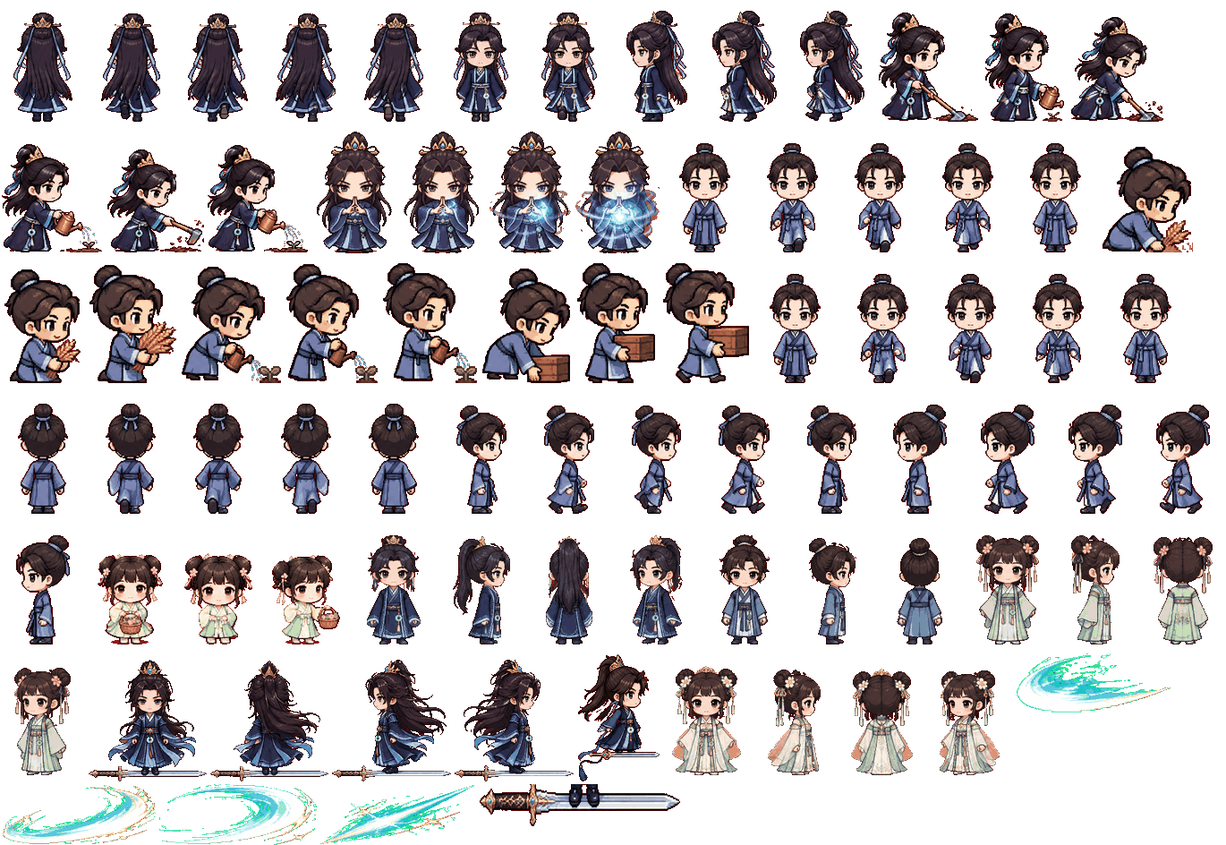
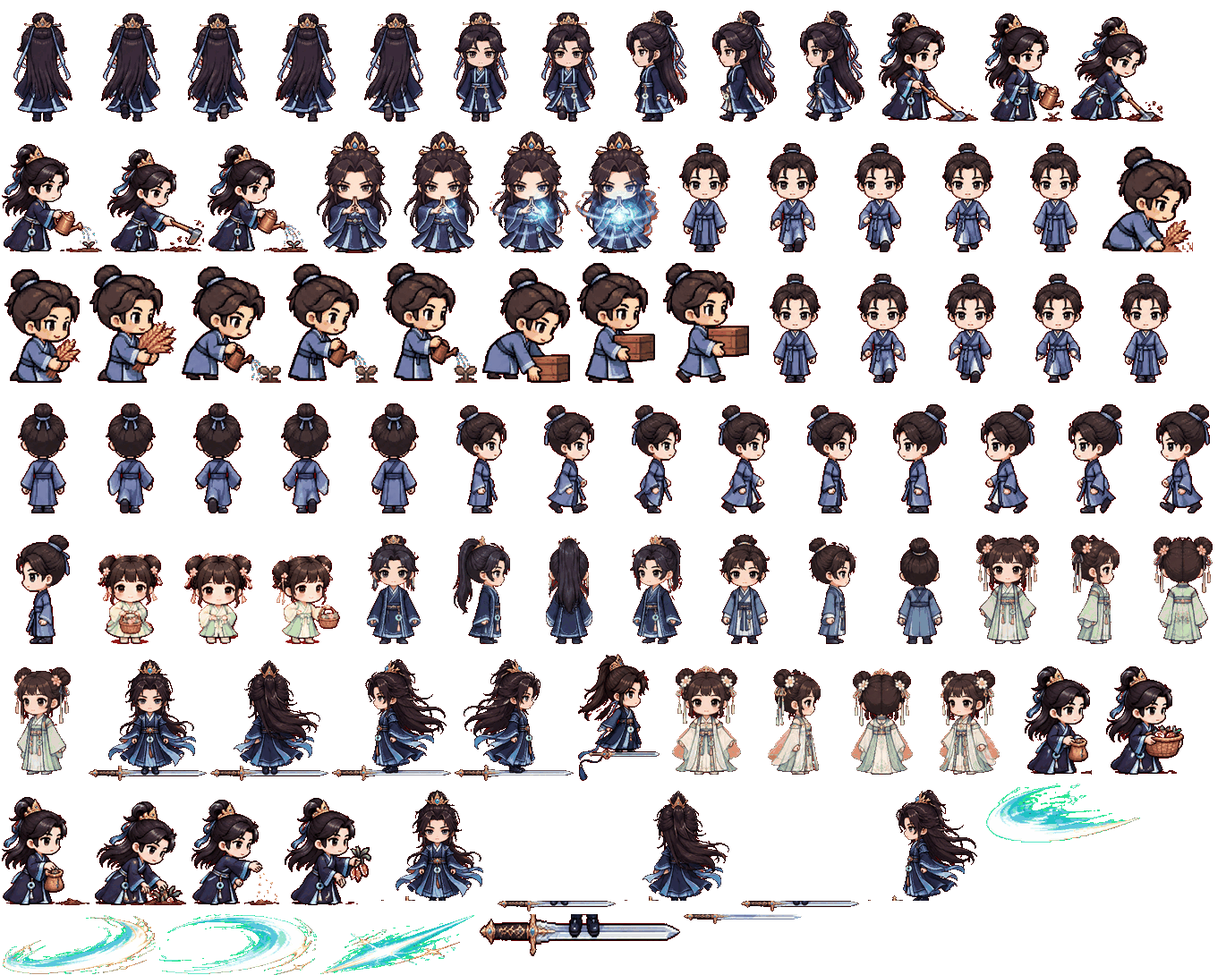
高清真机反馈修复批：主角播种/收获改本尊帧(原兜底误挂男弟子收获帧)/御剑拖尾改程序剑光带(废环件同心波纹)/全向御剑改去剑身体层+单体飞剑随向(剑尖恒指行进方向,主人13:00追加令;烘焙剑逐向实测:正背横剑/侧姿尖背向)/图集调色板锁定防漂移;fix6专项13项+全套基线全绿

diff --git a/index.html b/index.html
@@ -274,7 +274,9 @@ const CONFIG = {
   },
   fx: { poolSize: 512, hardCap: 400, dtClampMs: 33, degradeFrameMs: 20, dprCap: 1.5 },
   camera: { dampMs: 130, lookBackMs: 240, lookMax: 300, snapDist: 420 },  // 修复批②：阻尼跟随＋拖动巡视回正
-  flight: { height: 15, riseMs: 360, landDelayMs: 1000, trailMs: 70 },     // 修复批①：主角御剑（静止超 landDelay 落地）
+  flight: { height: 15, riseMs: 360, landDelayMs: 1000, trailMs: 70,   // trailMs 为旧环件拖尾口径（已弃用，保留键防外部引用失效）
+    trailSampleMs: 34, trailLifeMs: 400, trailWidth: 9,               // 高清真机反馈批②：程序剑光带拖尾（采样间隔/寿命/头宽 px）
+    swordLenFB: 1.35, swordSqMs: 100 },                               // 高清真机反馈批③：单体飞剑竖向长度倍率与转向时标（90°/swordSqMs）
   gait: { cyclePx: 48 },                                                   // 修复批①：步帧相位＝位移/步幅周期，帧与脚步同步
   save: { key: 'kaizongmen_save', lastGoodKey: 'kaizongmen_save_lastgood', version: 2, autosaveMs: 5000,
     slots: 5, slotPrefix: 'kaizongmen_slot_' },   // 修复批⑥：自动档（主 key）＋5 手动槽
@@ -915,6 +917,7 @@ const Offline = {
 const Fx = {
   canvas: null, ctx: null, dpr: 1,
   pool: [], active: 0, emitters: [], bolts: [], floats: [],
+  swordTrail: [],   // 高清真机反馈批②：御剑拖尾采样点列（世界坐标 {x,y,t}），_draw 内连成连续剑光带
   perf: { level: 0, frameAvg: 16, overFrames: 0 },
   trauma: 0, shakeT: 0, reducedMotion: false,
   sprites: {},
@@ -1029,13 +1032,40 @@ const Fx = {
     if (gleaves.length) this.emitters.push({ x: 800, y: 760, rate: 1.0, acc: 0, on: true, drift: true,
       spread: 780, spreadY: 330, sprites: gleaves, vx: 0.11, vy: 0.16, life: 9000, size: 9 });
   },
-  /* 美术批二：剑光拖影贴图注册（fx2_trail_1..4 → sprites trail1..4）；无图时 Actor 自动回退 spark/mote */
+  /* 美术批二：剑光拖影贴图注册（fx2_trail_1..4 → sprites trail1..4）。
+     高清真机反馈批②起环件不再用于飞行拖尾（拖尾改 _drawSwordTrail 程序光带），注册保留供他用/测试契约。 */
   attachSwordTrail(){
     if (this.trailSprites || !this.sprites || typeof Art === 'undefined' || !Art.ready2) return;
     const names = [];
     for (let i = 1; i <= 4; i++){ const c = Art.cropCanvas('fx2_trail_' + i + '_v1.png', true);
       if (c){ this.sprites['trail' + i] = c; names.push('trail' + i); } }
     if (names.length) this.trailSprites = names;
+  },
+  /* 高清真机反馈批②：御剑拖尾——Actor 移动中按 trailSampleMs 采样剑尖轨迹点，
+     _draw 时按寿命连成连续光带（外层青蓝晕＋内层青白芯，宽/透明度随龄衰减），无离散环件。 */
+  pushSwordTrail(x, y){
+    const T = this.swordTrail, now = performance.now(), last = T[T.length - 1];
+    if (last && Math.hypot(x - last.x, y - last.y) > 60) T.length = 0;   // 传送/回收跳变：断带防拉丝
+    T.push({ x, y, t: now });
+    while (T.length && now - T[0].t > CONFIG.flight.trailLifeMs) T.shift();
+  },
+  _drawSwordTrail(g){
+    const T = this.swordTrail; if (T.length < 2) return;
+    const now = performance.now(), life = CONFIG.flight.trailLifeMs, W0 = CONFIG.flight.trailWidth;
+    while (T.length && now - T[0].t > life) T.shift();
+    if (T.length < 2) return;
+    g.save(); g.globalCompositeOperation = 'lighter'; g.lineCap = 'round'; g.lineJoin = 'round';
+    for (let pass = 0; pass < 2; pass++){
+      for (let i = 1; i < T.length; i++){
+        const age = (now - T[i].t) / life; if (age >= 1) continue;
+        const p1 = Scene.worldToScreen(T[i - 1]), p2 = Scene.worldToScreen(T[i]);
+        g.strokeStyle = pass ? 'rgba(228,247,255,' + (0.55 * (1 - age)).toFixed(3) + ')'
+                             : 'rgba(96,186,255,' + (0.30 * (1 - age)).toFixed(3) + ')';
+        g.lineWidth = Math.max(0.6, W0 * (1 - age) * (pass ? 0.45 : 1));
+        g.beginPath(); g.moveTo(p1.x, p1.y); g.lineTo(p2.x, p2.y); g.stroke();
+      }
+    }
+    g.restore();
   },
   /* ---- 主循环（由游戏主循环以钳制后 dt 调用） ---- */
   tick(dtMs, frameMs){
@@ -1088,6 +1118,7 @@ const Fx = {
   _draw(){
     const g = this.ctx; g.setTransform(this.dpr, 0, 0, this.dpr, 0, 0);
     g.clearRect(0, 0, innerWidth, innerHeight);
+    this._drawSwordTrail(g);
     for (const b of this.bolts){ const a = 1 - b.age / b.life;
       g.strokeStyle = 'rgba(255,238,176,' + (a * 0.95) + ')'; g.lineWidth = 3; g.beginPath();
       for (const s of b.segs){ const p1 = Scene.worldToScreen({ x: s[0], y: s[1] }), p2 = Scene.worldToScreen({ x: s[2], y: s[3] });
@@ -1367,11 +1398,10 @@ const Actor = {
     const flyTarget = (now - p.lastMoveAt < CONFIG.flight.landDelayMs) ? CONFIG.flight.height : 0;
     p.flyH += (flyTarget - p.flyH) * Math.min(1, dt / (CONFIG.flight.riseMs / 3));
     if (Math.abs(flyTarget - p.flyH) < 0.1) p.flyH = flyTarget;
-    if (p.moving && p.flyH > 6){ // 剑光拖影（低频单粒，沿用 Fx 预算与帧率保护）
+    if (p.moving && p.flyH > 6){ // 剑光拖尾（高清真机反馈批②改程序光带：旧环件 fx2_trail 每 70ms 离散落一粒、寿命内叠成同心波纹，主人否决）
       p._trailAcc += dt;
-      if (p._trailAcc >= CONFIG.flight.trailMs){ p._trailAcc = 0;
-        Fx.burst(p.x - p.facing * 12, p.y - p.flyH + 4, { sprites: Fx.trailSprites || ['spark', 'mote'],
-          n: 1, speed: 0.4, life: 420, size: Fx.trailSprites ? 13 : 0 }); }
+      if (p._trailAcc >= CONFIG.flight.trailSampleMs){ p._trailAcc = 0;
+        Fx.pushSwordTrail(p.x, p.y - p.flyH + 6); }
     }
     S.player.x = p.x; S.player.y = p.y; S.player.facing = p.facing;
   },
@@ -2635,11 +2665,13 @@ const UI = {
  *   master hoe/water: 表02 全朝右（代码不翻转，与 v1 口径同）；chr 三视来自表08（正/侧朝右/背/斜）。
  *   male frm2: f/b/l/r 四向真帧（表05），06..09=乒乓别名（同 4/3/2/1 的 rect）；male labor 表06 原生侧姿。
  *   fly: 表03 四姿，剑身倾斜实测 |0.59..0.84|°≤3°；side_l 原生左、side_r 原生右（代码镜像/定版单姿逻辑不变）。
+ *   fly 分层（高清真机反馈批③＋13:00 追加令）：四向姿均切去剑身体层 _bd（cutY=131），剑身统一单体件 frm2_sword
+ *   按行进角绘制、剑尖恒随向（烘焙剑逐向实测：正/背横剑、侧姿尖背向）；master sow/harvest 为表02 播/收行本尊帧（批①）。
  *   v1 朝向映射（assets/ORIENTATION-map.md）为旧图集口径，已被本批取代。
  * ================================================================ */
 const Art = {
   ready: false, failed: false, ready2: false, failed2: false, ready3: false, failed3: false, imgs: {}, F: {}, tintCache: {},
-  RECTS: {"chars":{"frm_master_backwalk_01_v1.png":[0,0,96,144],"frm_master_backwalk_02_v1.png":[98,0,96,144],"frm_master_backwalk_03_v1.png":[196,0,96,144],"frm_master_backwalk_04_v1.png":[294,0,96,144],"frm_master_backwalk_05_v1.png":[392,0,96,144],"frm_master_walk_01_v1.png":[490,0,96,144],"frm_master_walk_02_v1.png":[588,0,96,144],"frm_master_walk_03_v1.png":[686,0,96,144],"frm_master_walk_04_v1.png":[784,0,96,144],"frm_master_walk_05_v1.png":[882,0,96,144],"frm_master_hoe_01_v1.png":[980,0,115,144],"frm_master_water_01_v1.png":[1097,0,96,144],"frm_master_hoe_02_v1.png":[1195,0,107,144],"frm_master_water_02_v1.png":[0,146,116,144],"frm_master_hoe_03_v1.png":[118,146,110,144],"frm_master_water_03_v1.png":[230,146,116,144],"frm_master_cast_01_v1.png":[348,146,96,144],"frm_master_cast_02_v1.png":[446,146,96,144],"frm_master_cast_03_v1.png":[544,146,96,144],"frm_master_cast_04_v1.png":[642,146,96,144],"frm_male_walk_01_v1.png":[740,146,96,144],"frm_male_walk_02_v1.png":[838,146,96,144],"frm_male_walk_03_v1.png":[936,146,96,144],"frm_male_walk_04_v1.png":[1034,146,96,144],"frm_male_walk_05_v1.png":[1132,146,96,144],"frm_male_harvest_01_v1.png":[1230,146,103,144],"frm_male_harvest_02_v1.png":[0,292,96,144],"frm_male_harvest_03_v1.png":[98,292,101,144],"frm_male_water_01_v1.png":[201,292,115,144],"frm_male_water_02_v1.png":[318,292,106,144],"frm_male_water_03_v1.png":[426,292,109,144],"frm_male_carry_01_v1.png":[537,292,102,144],"frm_male_carry_02_v1.png":[641,292,96,144],"frm_male_carry_03_v1.png":[739,292,100,144],"frm2_male_walkf_01_v1.png":[841,292,96,144],"frm2_male_walkf_02_v1.png":[939,292,96,144],"frm2_male_walkf_03_v1.png":[1037,292,96,144],"frm2_male_walkf_04_v1.png":[1135,292,96,144],"frm2_male_walkf_05_v1.png":[1233,292,96,144],"frm2_male_walkb_01_v1.png":[0,438,96,144],"frm2_male_walkb_02_v1.png":[98,438,96,144],"frm2_male_walkb_03_v1.png":[196,438,96,144],"frm2_male_walkb_04_v1.png":[294,438,96,144],"frm2_male_walkb_05_v1.png":[392,438,96,144],"frm2_male_walkr_01_v1.png":[490,438,96,144],"frm2_male_walkr_02_v1.png":[588,438,96,144],"frm2_male_walkr_03_v1.png":[686,438,96,144],"frm2_male_walkr_04_v1.png":[784,438,96,144],"frm2_male_walkr_05_v1.png":[882,438,96,144],"frm2_male_walkl_01_v1.png":[980,438,96,144],"frm2_male_walkl_02_v1.png":[1078,438,96,144],"frm2_male_walkl_03_v1.png":[1176,438,96,144],"frm2_male_walkl_04_v1.png":[1274,438,96,144],"frm2_male_walkl_05_v1.png":[0,584,96,144],"frm_female_basket_01_v1.png":[98,584,96,144],"frm_female_basket_02_v1.png":[196,584,96,144],"frm_female_basket_03_v1.png":[294,584,96,144],"chr_master_front_v1.png":[392,584,96,144],"chr_master_side_v1.png":[490,584,96,144],"chr_master_back_v1.png":[588,584,96,144],"chr_master_side34_v1.png":[686,584,96,144],"chr_male_front_v1.png":[784,584,96,144],"chr_male_side_v1.png":[882,584,96,144],"chr_male_back_v1.png":[980,584,96,144],"chr_female_front_v1.png":[1078,584,96,144],"chr_female_side_v1.png":[1176,584,96,144],"chr_female_back_v1.png":[1274,584,96,144],"chr_female_side34_v1.png":[0,730,96,144],"frm2_master_fly_front_v1.png":[98,730,134,144],"frm2_master_fly_back_v1.png":[234,730,134,144],"frm2_master_fly_side_l_v1.png":[370,730,135,144],"frm2_master_fly_side_r_v1.png":[507,730,135,144],"frm2_master_fly_side_l2_v1.png":[644,730,96,144],"chr_female2_front_v1.png":[742,730,96,144],"chr_female2_side_v1.png":[840,730,96,144],"chr_female2_back_v1.png":[938,730,96,144],"chr_female2_side34_v1.png":[1036,730,96,144],"fx2_trail_1_v1.png":[1134,730,176,68],"fx2_trail_2_v1.png":[0,876,176,68],"fx2_trail_3_v1.png":[178,876,176,68],"fx2_trail_4_v1.png":[356,876,176,68],"art2_sword_v1.png":[534,876,228,50],"frm2_male_walkf_06_v1.png":[1135,292,96,144],"frm2_male_walkf_07_v1.png":[1037,292,96,144],"frm2_male_walkf_08_v1.png":[939,292,96,144],"frm2_male_walkf_09_v1.png":[841,292,96,144],"frm2_male_walkb_06_v1.png":[294,438,96,144],"frm2_male_walkb_07_v1.png":[196,438,96,144],"frm2_male_walkb_08_v1.png":[98,438,96,144],"frm2_male_walkb_09_v1.png":[0,438,96,144],"frm2_male_walkr_06_v1.png":[784,438,96,144],"frm2_male_walkr_07_v1.png":[686,438,96,144],"frm2_male_walkr_08_v1.png":[588,438,96,144],"frm2_male_walkr_09_v1.png":[490,438,96,144],"frm2_male_walkl_06_v1.png":[1274,438,96,144],"frm2_male_walkl_07_v1.png":[1176,438,96,144],"frm2_male_walkl_08_v1.png":[1078,438,96,144],"frm2_male_walkl_09_v1.png":[980,438,96,144],"chr_male_back2_v1.png":[980,584,96,144]},"fix3":{"frm3_frm_male_harvest_01_v1.png":[1230,146,103,144],"frm3_frm_male_harvest_02_v1.png":[0,292,96,144],"frm3_frm_male_harvest_03_v1.png":[98,292,101,144],"frm3_frm_male_water_01_v1.png":[201,292,115,144],"frm3_frm_male_water_02_v1.png":[318,292,106,144],"frm3_frm_male_water_03_v1.png":[426,292,109,144],"frm3_frm_male_carry_01_v1.png":[537,292,102,144],"frm3_frm_male_carry_02_v1.png":[641,292,96,144],"frm3_frm_male_carry_03_v1.png":[739,292,100,144]},"scene":{"int_forge_v1.png":[0,0,320,320],"int_hall_v1.png":[322,0,320,320],"int_quarters_v1.png":[644,0,320,320],"int_stall_v1.png":[0,322,320,320],"bld_forge_v1.png":[322,322,302,254],"bld_waterwheel_v1.png":[626,322,302,225],"bld_hall_v1.png":[930,322,302,222],"bld_quarters_v1.png":[0,644,302,213],"bld_stall_v1.png":[304,644,262,205],"bld_gate_v1.png":[568,644,302,180],"prop_minegate_v1.png":[872,644,154,132],"prop_scale_v1.png":[1028,644,96,108],"prop_cart_v1.png":[1126,644,95,88],"crop_lingzhi_s2_v1.png":[0,859,110,84],"crop_lingzhi_s3_v1.png":[112,859,96,84],"crop_lingzhi_s4_v1.png":[210,859,84,84],"crop_lingzhi_s5_v1.png":[296,859,75,84],"crop_ninglu_s3_v1.png":[373,859,95,84],"crop_ninglu_s4_v1.png":[470,859,85,84],"crop_ninglu_s5_v1.png":[557,859,81,84],"crop_xuanyu_s2_v1.png":[640,859,109,84],"crop_xuanyu_s3_v1.png":[751,859,99,84],"crop_xuanyu_s4_v1.png":[852,859,91,84],"crop_xuanyu_s5_v1.png":[945,859,89,84],"prop_crystal_v1.png":[1036,859,93,84],"crop_ninglu_s2_v1.png":[1131,859,112,81],"crop_xuanyu_s1_v1.png":[0,945,112,80],"crop_ninglu_s1_v1.png":[114,945,112,78],"crop_lingzhi_s1_v1.png":[228,945,112,77],"tile_soil_v1.png":[342,945,112,77],"prop_lantern_v1.png":[456,945,54,69],"prop_fence_v1.png":[512,945,95,58],"prop_bush_v1.png":[609,945,61,55],"prop_flower_v1.png":[672,945,57,47],"cropfix_lingzhi_s2_v1.png":[0,859,110,84],"cropfix_lingzhi_s3_v1.png":[112,859,96,84],"cropfix_lingzhi_s4_v1.png":[210,859,84,84],"cropfix_lingzhi_s5_v1.png":[296,859,75,84],"cropfix_ninglu_s5_v1.png":[557,859,81,84],"cropfix_xuanyu_s5_v1.png":[945,859,89,84]},"ground":{"fx_wheel_v1.png":[0,0,256,256],"fx_splash_3_v1.png":[258,0,148,177],"gnd_roadedge_v1.png":[408,0,48,176],"gnd_grass_a_v1.png":[458,0,160,160],"gnd_grass_b_v1.png":[620,0,160,160],"gnd_dirt_v1.png":[782,0,160,160],"gnd_stone_v1.png":[0,258,160,160],"gnd_water_v1.png":[162,258,160,160],"gnd_rock_v1.png":[324,258,160,160],"gnd_steps_v1.png":[486,258,160,160],"gnd_shore_v1.png":[648,258,176,148],"fx_splash_2_v1.png":[826,258,148,144],"fx_splash_1_v1.png":[0,420,148,102],"fx_splash_4_v1.png":[150,420,148,65],"fx_leaf_2_v1.png":[300,420,38,44],"fx_leaf_3_v1.png":[340,420,43,44],"fx_leaf_4_v1.png":[385,420,58,44],"fx_leaf_5_v1.png":[445,420,44,44],"fx_leaf_6_v1.png":[491,420,64,44],"fx_leaf_7_v1.png":[557,420,53,44],"fx_leaf_1_v1.png":[612,420,64,36],"fx_leaf_8_v1.png":[678,420,64,34],"fx_petal_1_v1.png":[744,420,35,34],"fx_petal_3_v1.png":[781,420,30,34],"fx_petal_4_v1.png":[813,420,25,34],"fx_petal_5_v1.png":[840,420,36,34],"fx_petal_7_v1.png":[878,420,28,34],"fx_petal_2_v1.png":[908,420,44,32],"fx_petal_6_v1.png":[954,420,44,31]},"ui":{"art2_plaque_v1.png":[0,0,600,271],"ava_0_v1.png":[602,0,124,124],"ava_1_v1.png":[728,0,124,124],"ava_2_v1.png":[854,0,124,124],"ava_3_v1.png":[0,273,124,124],"ava_4_v1.png":[126,273,124,124],"ava_5_v1.png":[252,273,124,124],"icn_coin_v1.png":[378,273,96,96],"icn_disciple_v1.png":[476,273,96,96],"icn_build_v1.png":[574,273,96,96],"icn_bag_v1.png":[672,273,96,96],"icn_order_v1.png":[770,273,96,96],"icn_signin_v1.png":[868,273,96,96],"icn_sleep_v1.png":[0,399,96,96],"icn_stamina_v1.png":[98,399,96,96],"icn_recruit_v1.png":[196,399,96,96],"icn_promote_v1.png":[294,399,96,96],"icn_expand_v1.png":[392,399,96,96],"icn_dispatch_v1.png":[490,399,96,96],"icn_board_v1.png":[588,399,96,96],"icn_lingzhi_v1.png":[686,399,96,96],"icn_ninglu_v1.png":[784,399,96,96],"icn_xuanyu_v1.png":[882,399,96,96]}},
+  RECTS: {"chars":{"frm_master_backwalk_01_v1.png":[0,0,96,144],"frm_master_backwalk_02_v1.png":[98,0,96,144],"frm_master_backwalk_03_v1.png":[196,0,96,144],"frm_master_backwalk_04_v1.png":[294,0,96,144],"frm_master_backwalk_05_v1.png":[392,0,96,144],"frm_master_walk_01_v1.png":[490,0,96,144],"frm_master_walk_02_v1.png":[588,0,96,144],"frm_master_walk_03_v1.png":[686,0,96,144],"frm_master_walk_04_v1.png":[784,0,96,144],"frm_master_walk_05_v1.png":[882,0,96,144],"frm_master_hoe_01_v1.png":[980,0,115,144],"frm_master_water_01_v1.png":[1097,0,96,144],"frm_master_hoe_02_v1.png":[1195,0,107,144],"frm_master_water_02_v1.png":[0,146,116,144],"frm_master_hoe_03_v1.png":[118,146,110,144],"frm_master_water_03_v1.png":[230,146,116,144],"frm_master_cast_01_v1.png":[348,146,96,144],"frm_master_cast_02_v1.png":[446,146,96,144],"frm_master_cast_03_v1.png":[544,146,96,144],"frm_master_cast_04_v1.png":[642,146,96,144],"frm_male_walk_01_v1.png":[740,146,96,144],"frm_male_walk_02_v1.png":[838,146,96,144],"frm_male_walk_03_v1.png":[936,146,96,144],"frm_male_walk_04_v1.png":[1034,146,96,144],"frm_male_walk_05_v1.png":[1132,146,96,144],"frm_male_harvest_01_v1.png":[1230,146,103,144],"frm_male_harvest_02_v1.png":[0,292,96,144],"frm_male_harvest_03_v1.png":[98,292,101,144],"frm_male_water_01_v1.png":[201,292,115,144],"frm_male_water_02_v1.png":[318,292,106,144],"frm_male_water_03_v1.png":[426,292,109,144],"frm_male_carry_01_v1.png":[537,292,102,144],"frm_male_carry_02_v1.png":[641,292,96,144],"frm_male_carry_03_v1.png":[739,292,100,144],"frm2_male_walkf_01_v1.png":[841,292,96,144],"frm2_male_walkf_02_v1.png":[939,292,96,144],"frm2_male_walkf_03_v1.png":[1037,292,96,144],"frm2_male_walkf_04_v1.png":[1135,292,96,144],"frm2_male_walkf_05_v1.png":[1233,292,96,144],"frm2_male_walkb_01_v1.png":[0,438,96,144],"frm2_male_walkb_02_v1.png":[98,438,96,144],"frm2_male_walkb_03_v1.png":[196,438,96,144],"frm2_male_walkb_04_v1.png":[294,438,96,144],"frm2_male_walkb_05_v1.png":[392,438,96,144],"frm2_male_walkr_01_v1.png":[490,438,96,144],"frm2_male_walkr_02_v1.png":[588,438,96,144],"frm2_male_walkr_03_v1.png":[686,438,96,144],"frm2_male_walkr_04_v1.png":[784,438,96,144],"frm2_male_walkr_05_v1.png":[882,438,96,144],"frm2_male_walkl_01_v1.png":[980,438,96,144],"frm2_male_walkl_02_v1.png":[1078,438,96,144],"frm2_male_walkl_03_v1.png":[1176,438,96,144],"frm2_male_walkl_04_v1.png":[1274,438,96,144],"frm2_male_walkl_05_v1.png":[0,584,96,144],"frm_female_basket_01_v1.png":[98,584,96,144],"frm_female_basket_02_v1.png":[196,584,96,144],"frm_female_basket_03_v1.png":[294,584,96,144],"chr_master_front_v1.png":[392,584,96,144],"chr_master_side_v1.png":[490,584,96,144],"chr_master_back_v1.png":[588,584,96,144],"chr_master_side34_v1.png":[686,584,96,144],"chr_male_front_v1.png":[784,584,96,144],"chr_male_side_v1.png":[882,584,96,144],"chr_male_back_v1.png":[980,584,96,144],"chr_female_front_v1.png":[1078,584,96,144],"chr_female_side_v1.png":[1176,584,96,144],"chr_female_back_v1.png":[1274,584,96,144],"chr_female_side34_v1.png":[0,730,96,144],"frm2_master_fly_front_v1.png":[98,730,134,144],"frm2_master_fly_back_v1.png":[234,730,134,144],"frm2_master_fly_side_l_v1.png":[370,730,135,144],"frm2_master_fly_side_r_v1.png":[507,730,135,144],"frm2_master_fly_side_l2_v1.png":[644,730,96,144],"chr_female2_front_v1.png":[742,730,96,144],"chr_female2_side_v1.png":[840,730,96,144],"chr_female2_back_v1.png":[938,730,96,144],"chr_female2_side34_v1.png":[1036,730,96,144],"frm_master_sow_01_v1.png":[1134,730,96,144],"frm_master_harvest_01_v1.png":[1232,730,96,144],"frm_master_sow_02_v1.png":[0,876,102,144],"frm_master_harvest_02_v1.png":[104,876,106,144],"frm_master_sow_03_v1.png":[212,876,102,144],"frm_master_harvest_03_v1.png":[316,876,101,144],"frm2_master_fly_front_bd_v1.png":[419,876,134,144],"frm2_master_fly_front_sw_v1.png":[555,876,134,144],"frm2_master_fly_back_bd_v1.png":[691,876,134,144],"frm2_master_fly_back_sw_v1.png":[827,876,134,144],"frm2_master_fly_side_l_bd_v1.png":[963,876,135,144],"fx2_trail_1_v1.png":[1100,876,176,68],"fx2_trail_2_v1.png":[0,1022,176,68],"fx2_trail_3_v1.png":[178,1022,176,68],"fx2_trail_4_v1.png":[356,1022,176,68],"art2_sword_v1.png":[534,1022,228,50],"frm2_sword_v1.png":[764,1022,132,11],"frm2_male_walkf_06_v1.png":[1135,292,96,144],"frm2_male_walkf_07_v1.png":[1037,292,96,144],"frm2_male_walkf_08_v1.png":[939,292,96,144],"frm2_male_walkf_09_v1.png":[841,292,96,144],"frm2_male_walkb_06_v1.png":[294,438,96,144],"frm2_male_walkb_07_v1.png":[196,438,96,144],"frm2_male_walkb_08_v1.png":[98,438,96,144],"frm2_male_walkb_09_v1.png":[0,438,96,144],"frm2_male_walkr_06_v1.png":[784,438,96,144],"frm2_male_walkr_07_v1.png":[686,438,96,144],"frm2_male_walkr_08_v1.png":[588,438,96,144],"frm2_male_walkr_09_v1.png":[490,438,96,144],"frm2_male_walkl_06_v1.png":[1274,438,96,144],"frm2_male_walkl_07_v1.png":[1176,438,96,144],"frm2_male_walkl_08_v1.png":[1078,438,96,144],"frm2_male_walkl_09_v1.png":[980,438,96,144],"chr_male_back2_v1.png":[980,584,96,144]},"fix3":{"frm3_frm_male_harvest_01_v1.png":[1230,146,103,144],"frm3_frm_male_harvest_02_v1.png":[0,292,96,144],"frm3_frm_male_harvest_03_v1.png":[98,292,101,144],"frm3_frm_male_water_01_v1.png":[201,292,115,144],"frm3_frm_male_water_02_v1.png":[318,292,106,144],"frm3_frm_male_water_03_v1.png":[426,292,109,144],"frm3_frm_male_carry_01_v1.png":[537,292,102,144],"frm3_frm_male_carry_02_v1.png":[641,292,96,144],"frm3_frm_male_carry_03_v1.png":[739,292,100,144]},"scene":{"int_forge_v1.png":[0,0,320,320],"int_hall_v1.png":[322,0,320,320],"int_quarters_v1.png":[644,0,320,320],"int_stall_v1.png":[0,322,320,320],"bld_forge_v1.png":[322,322,302,254],"bld_waterwheel_v1.png":[626,322,302,225],"bld_hall_v1.png":[930,322,302,222],"bld_quarters_v1.png":[0,644,302,213],"bld_stall_v1.png":[304,644,262,205],"bld_gate_v1.png":[568,644,302,180],"prop_minegate_v1.png":[872,644,154,132],"prop_scale_v1.png":[1028,644,96,108],"prop_cart_v1.png":[1126,644,95,88],"crop_lingzhi_s2_v1.png":[0,859,110,84],"crop_lingzhi_s3_v1.png":[112,859,96,84],"crop_lingzhi_s4_v1.png":[210,859,84,84],"crop_lingzhi_s5_v1.png":[296,859,75,84],"crop_ninglu_s3_v1.png":[373,859,95,84],"crop_ninglu_s4_v1.png":[470,859,85,84],"crop_ninglu_s5_v1.png":[557,859,81,84],"crop_xuanyu_s2_v1.png":[640,859,109,84],"crop_xuanyu_s3_v1.png":[751,859,99,84],"crop_xuanyu_s4_v1.png":[852,859,91,84],"crop_xuanyu_s5_v1.png":[945,859,89,84],"prop_crystal_v1.png":[1036,859,93,84],"crop_ninglu_s2_v1.png":[1131,859,112,81],"crop_xuanyu_s1_v1.png":[0,945,112,80],"crop_ninglu_s1_v1.png":[114,945,112,78],"crop_lingzhi_s1_v1.png":[228,945,112,77],"tile_soil_v1.png":[342,945,112,77],"prop_lantern_v1.png":[456,945,54,69],"prop_fence_v1.png":[512,945,95,58],"prop_bush_v1.png":[609,945,61,55],"prop_flower_v1.png":[672,945,57,47],"cropfix_lingzhi_s2_v1.png":[0,859,110,84],"cropfix_lingzhi_s3_v1.png":[112,859,96,84],"cropfix_lingzhi_s4_v1.png":[210,859,84,84],"cropfix_lingzhi_s5_v1.png":[296,859,75,84],"cropfix_ninglu_s5_v1.png":[557,859,81,84],"cropfix_xuanyu_s5_v1.png":[945,859,89,84]},"ground":{"fx_wheel_v1.png":[0,0,256,256],"fx_splash_3_v1.png":[258,0,148,177],"gnd_roadedge_v1.png":[408,0,48,176],"gnd_grass_a_v1.png":[458,0,160,160],"gnd_grass_b_v1.png":[620,0,160,160],"gnd_dirt_v1.png":[782,0,160,160],"gnd_stone_v1.png":[0,258,160,160],"gnd_water_v1.png":[162,258,160,160],"gnd_rock_v1.png":[324,258,160,160],"gnd_steps_v1.png":[486,258,160,160],"gnd_shore_v1.png":[648,258,176,148],"fx_splash_2_v1.png":[826,258,148,144],"fx_splash_1_v1.png":[0,420,148,102],"fx_splash_4_v1.png":[150,420,148,65],"fx_leaf_2_v1.png":[300,420,38,44],"fx_leaf_3_v1.png":[340,420,43,44],"fx_leaf_4_v1.png":[385,420,58,44],"fx_leaf_5_v1.png":[445,420,44,44],"fx_leaf_6_v1.png":[491,420,64,44],"fx_leaf_7_v1.png":[557,420,53,44],"fx_leaf_1_v1.png":[612,420,64,36],"fx_leaf_8_v1.png":[678,420,64,34],"fx_petal_1_v1.png":[744,420,35,34],"fx_petal_3_v1.png":[781,420,30,34],"fx_petal_4_v1.png":[813,420,25,34],"fx_petal_5_v1.png":[840,420,36,34],"fx_petal_7_v1.png":[878,420,28,34],"fx_petal_2_v1.png":[908,420,44,32],"fx_petal_6_v1.png":[954,420,44,31]},"ui":{"art2_plaque_v1.png":[0,0,600,271],"ava_0_v1.png":[602,0,124,124],"ava_1_v1.png":[728,0,124,124],"ava_2_v1.png":[854,0,124,124],"ava_3_v1.png":[0,273,124,124],"ava_4_v1.png":[126,273,124,124],"ava_5_v1.png":[252,273,124,124],"icn_coin_v1.png":[378,273,96,96],"icn_disciple_v1.png":[476,273,96,96],"icn_build_v1.png":[574,273,96,96],"icn_bag_v1.png":[672,273,96,96],"icn_order_v1.png":[770,273,96,96],"icn_signin_v1.png":[868,273,96,96],"icn_sleep_v1.png":[0,399,96,96],"icn_stamina_v1.png":[98,399,96,96],"icn_recruit_v1.png":[196,399,96,96],"icn_promote_v1.png":[294,399,96,96],"icn_expand_v1.png":[392,399,96,96],"icn_dispatch_v1.png":[490,399,96,96],"icn_board_v1.png":[588,399,96,96],"icn_lingzhi_v1.png":[686,399,96,96],"icn_ninglu_v1.png":[784,399,96,96],"icn_xuanyu_v1.png":[882,399,96,96]}},
   load(){
     /* 高清集成批 v2：四张图集（chars/scene/ground 主批 + ui 独立批）；fix3 组帧物理位于 chars 图集。
        帧键沿用 *_v1.png 后缀作不透明标识（全代码引用据此寻址），图集文件为 _v2。
@@ -2770,7 +2802,7 @@ const Art = {
  * 渲染（像素占位精灵：精灵图离屏预渲染，按像素网格绘制、关平滑）
  * ================================================================ */
 /* 锚点表（离线实测 slice_work3/body_table.json）[旧缩放列（四批起停用）, 脚底行, 内容中心x, 头顶行]；本表自修复四批起只作锚点用，缩放一律走 SCALE4 固定倍率 */
-const BODY3 = {"chr_female2_back_v1.png":[1.0,137,47.5,15],"chr_female2_front_v1.png":[1.0,137,47.5,12],"chr_female2_side34_v1.png":[1.0,137,47.5,17],"chr_female2_side_v1.png":[1.0,137,47.5,16],"chr_female_back_v1.png":[1.0,137,48.0,14],"chr_female_front_v1.png":[1.0,137,48.0,12],"chr_female_side34_v1.png":[1.0,137,47.5,14],"chr_female_side_v1.png":[1.0,137,48.0,12],"chr_male_back2_v1.png":[1.0,137,48.0,15],"chr_male_back_v1.png":[1.0,137,48.0,15],"chr_male_front_v1.png":[1.0,137,48.0,12],"chr_male_side_v1.png":[1.0,137,48.0,15],"chr_master_back_v1.png":[1.0,137,48.0,14],"chr_master_front_v1.png":[1.0,137,48.0,12],"chr_master_side34_v1.png":[1.0,137,47.5,12],"chr_master_side_v1.png":[1.0,137,48.0,13],"frm2_male_walkb_01_v1.png":[1.0,136,48.0,11],"frm2_male_walkb_02_v1.png":[1.0,137,48.0,11],"frm2_male_walkb_03_v1.png":[1.0,137,48.0,11],"frm2_male_walkb_04_v1.png":[1.0,137,48.5,11],"frm2_male_walkb_05_v1.png":[1.0,136,48.0,11],"frm2_male_walkb_06_v1.png":[1.0,137,48.5,11],"frm2_male_walkb_07_v1.png":[1.0,137,48.0,11],"frm2_male_walkb_08_v1.png":[1.0,137,48.0,11],"frm2_male_walkb_09_v1.png":[1.0,136,48.0,11],"frm2_male_walkf_01_v1.png":[1.0,137,47.5,12],"frm2_male_walkf_02_v1.png":[1.0,137,47.5,12],"frm2_male_walkf_03_v1.png":[1.0,137,47.5,12],"frm2_male_walkf_04_v1.png":[1.0,137,47.5,12],"frm2_male_walkf_05_v1.png":[1.0,137,47.5,12],"frm2_male_walkf_06_v1.png":[1.0,137,47.5,12],"frm2_male_walkf_07_v1.png":[1.0,137,47.5,12],"frm2_male_walkf_08_v1.png":[1.0,137,47.5,12],"frm2_male_walkf_09_v1.png":[1.0,137,47.5,12],"frm2_male_walkl_01_v1.png":[1.0,137,48.0,12],"frm2_male_walkl_02_v1.png":[1.0,137,48.0,12],"frm2_male_walkl_03_v1.png":[1.0,137,48.0,12],"frm2_male_walkl_04_v1.png":[1.0,137,48.0,12],"frm2_male_walkl_05_v1.png":[1.0,137,48.0,12],"frm2_male_walkl_06_v1.png":[1.0,137,48.0,12],"frm2_male_walkl_07_v1.png":[1.0,137,48.0,12],"frm2_male_walkl_08_v1.png":[1.0,137,48.0,12],"frm2_male_walkl_09_v1.png":[1.0,137,48.0,12],"frm2_male_walkr_01_v1.png":[1.0,137,48.0,13],"frm2_male_walkr_02_v1.png":[1.0,137,48.0,13],"frm2_male_walkr_03_v1.png":[1.0,137,47.5,13],"frm2_male_walkr_04_v1.png":[1.0,137,47.5,13],"frm2_male_walkr_05_v1.png":[1.0,137,47.5,13],"frm2_male_walkr_06_v1.png":[1.0,137,47.5,13],"frm2_male_walkr_07_v1.png":[1.0,137,47.5,13],"frm2_male_walkr_08_v1.png":[1.0,137,48.0,13],"frm2_male_walkr_09_v1.png":[1.0,137,48.0,13],"frm2_master_fly_back_v1.png":[1.0,132,67.0,6],"frm2_master_fly_front_v1.png":[1.0,132,67.0,6],"frm2_master_fly_side_l2_v1.png":[1.0,111,47.5,0],"frm2_master_fly_side_l_v1.png":[1.0,132,67.5,6],"frm2_master_fly_side_r_v1.png":[1.0,132,67.5,6],"frm3_frm_male_carry_01_v1.png":[1.0,137,51.0,6],"frm3_frm_male_carry_02_v1.png":[1.0,136,47.5,0],"frm3_frm_male_carry_03_v1.png":[1.0,137,50.0,0],"frm3_frm_male_harvest_01_v1.png":[1.0,137,51.5,17],"frm3_frm_male_harvest_02_v1.png":[1.0,137,47.5,7],"frm3_frm_male_harvest_03_v1.png":[1.0,137,50.5,2],"frm3_frm_male_water_01_v1.png":[1.0,136,57.5,4],"frm3_frm_male_water_02_v1.png":[1.0,136,53.0,1],"frm3_frm_male_water_03_v1.png":[1.0,136,54.5,0],"frm_female_basket_01_v1.png":[1.0,137,47.5,33],"frm_female_basket_02_v1.png":[1.0,137,48.0,32],"frm_female_basket_03_v1.png":[1.0,137,48.0,34],"frm_male_carry_01_v1.png":[1.0,137,51.0,6],"frm_male_carry_02_v1.png":[1.0,136,47.5,0],"frm_male_carry_03_v1.png":[1.0,137,50.0,0],"frm_male_harvest_01_v1.png":[1.0,137,51.5,17],"frm_male_harvest_02_v1.png":[1.0,137,47.5,7],"frm_male_harvest_03_v1.png":[1.0,137,50.5,2],"frm_male_walk_01_v1.png":[1.0,137,47.5,12],"frm_male_walk_02_v1.png":[1.0,137,47.5,12],"frm_male_walk_03_v1.png":[1.0,137,47.5,12],"frm_male_walk_04_v1.png":[1.0,137,47.5,12],"frm_male_walk_05_v1.png":[1.0,137,47.5,12],"frm_male_water_01_v1.png":[1.0,136,57.5,4],"frm_male_water_02_v1.png":[1.0,136,53.0,1],"frm_male_water_03_v1.png":[1.0,136,54.5,0],"frm_master_backwalk_01_v1.png":[1.0,137,48.0,12],"frm_master_backwalk_02_v1.png":[1.0,137,48.0,13],"frm_master_backwalk_03_v1.png":[1.0,137,47.5,13],"frm_master_backwalk_04_v1.png":[1.0,137,47.5,13],"frm_master_backwalk_05_v1.png":[1.0,137,48.0,13],"frm_master_hoe_01_v1.png":[1.0,137,57.5,12],"frm_master_hoe_02_v1.png":[1.0,137,53.5,17],"frm_master_hoe_03_v1.png":[1.0,137,55.0,19],"frm_master_walk_01_v1.png":[1.0,137,47.5,12],"frm_master_walk_02_v1.png":[1.0,137,48.0,12],"frm_master_walk_03_v1.png":[1.0,137,48.0,10],"frm_master_walk_04_v1.png":[1.0,137,48.0,10],"frm_master_walk_05_v1.png":[1.0,137,48.0,10],"frm_master_water_01_v1.png":[1.0,137,48.0,13],"frm_master_water_02_v1.png":[1.0,137,57.5,13],"frm_master_water_03_v1.png":[1.0,137,58.0,14],"frm_master_cast_01_v1.png":[1.0,137,47.5,0],"frm_master_cast_02_v1.png":[1.0,137,47.5,0],"frm_master_cast_03_v1.png":[1.0,137,48.0,0],"frm_master_cast_04_v1.png":[1.0,137,48.0,0],"art2_sword_v1.png":[1.1667,40,114,2],"fx2_trail_1_v1.png":[1.0,60,88,4],"fx2_trail_2_v1.png":[1.0,60,88,4],"fx2_trail_3_v1.png":[1.0,60,88,4],"fx2_trail_4_v1.png":[1.0,60,88,4]};
+const BODY3 = {"chr_female2_back_v1.png":[1.0,137,47.5,15],"chr_female2_front_v1.png":[1.0,137,47.5,12],"chr_female2_side34_v1.png":[1.0,137,47.5,17],"chr_female2_side_v1.png":[1.0,137,47.5,16],"chr_female_back_v1.png":[1.0,137,48.0,14],"chr_female_front_v1.png":[1.0,137,48.0,12],"chr_female_side34_v1.png":[1.0,137,47.5,14],"chr_female_side_v1.png":[1.0,137,48.0,12],"chr_male_back2_v1.png":[1.0,137,48.0,15],"chr_male_back_v1.png":[1.0,137,48.0,15],"chr_male_front_v1.png":[1.0,137,48.0,12],"chr_male_side_v1.png":[1.0,137,48.0,15],"chr_master_back_v1.png":[1.0,137,48.0,14],"chr_master_front_v1.png":[1.0,137,48.0,12],"chr_master_side34_v1.png":[1.0,137,47.5,12],"chr_master_side_v1.png":[1.0,137,48.0,13],"frm2_male_walkb_01_v1.png":[1.0,136,48.0,11],"frm2_male_walkb_02_v1.png":[1.0,137,48.0,11],"frm2_male_walkb_03_v1.png":[1.0,137,48.0,11],"frm2_male_walkb_04_v1.png":[1.0,137,48.5,11],"frm2_male_walkb_05_v1.png":[1.0,136,48.0,11],"frm2_male_walkb_06_v1.png":[1.0,137,48.5,11],"frm2_male_walkb_07_v1.png":[1.0,137,48.0,11],"frm2_male_walkb_08_v1.png":[1.0,137,48.0,11],"frm2_male_walkb_09_v1.png":[1.0,136,48.0,11],"frm2_male_walkf_01_v1.png":[1.0,137,47.5,12],"frm2_male_walkf_02_v1.png":[1.0,137,47.5,12],"frm2_male_walkf_03_v1.png":[1.0,137,47.5,12],"frm2_male_walkf_04_v1.png":[1.0,137,47.5,12],"frm2_male_walkf_05_v1.png":[1.0,137,47.5,12],"frm2_male_walkf_06_v1.png":[1.0,137,47.5,12],"frm2_male_walkf_07_v1.png":[1.0,137,47.5,12],"frm2_male_walkf_08_v1.png":[1.0,137,47.5,12],"frm2_male_walkf_09_v1.png":[1.0,137,47.5,12],"frm2_male_walkl_01_v1.png":[1.0,137,48.0,12],"frm2_male_walkl_02_v1.png":[1.0,137,48.0,12],"frm2_male_walkl_03_v1.png":[1.0,137,48.0,12],"frm2_male_walkl_04_v1.png":[1.0,137,48.0,12],"frm2_male_walkl_05_v1.png":[1.0,137,48.0,12],"frm2_male_walkl_06_v1.png":[1.0,137,48.0,12],"frm2_male_walkl_07_v1.png":[1.0,137,48.0,12],"frm2_male_walkl_08_v1.png":[1.0,137,48.0,12],"frm2_male_walkl_09_v1.png":[1.0,137,48.0,12],"frm2_male_walkr_01_v1.png":[1.0,137,48.0,13],"frm2_male_walkr_02_v1.png":[1.0,137,48.0,13],"frm2_male_walkr_03_v1.png":[1.0,137,47.5,13],"frm2_male_walkr_04_v1.png":[1.0,137,47.5,13],"frm2_male_walkr_05_v1.png":[1.0,137,47.5,13],"frm2_male_walkr_06_v1.png":[1.0,137,47.5,13],"frm2_male_walkr_07_v1.png":[1.0,137,47.5,13],"frm2_male_walkr_08_v1.png":[1.0,137,48.0,13],"frm2_male_walkr_09_v1.png":[1.0,137,48.0,13],"frm2_master_fly_back_v1.png":[1.0,132,67.0,6],"frm2_master_fly_front_v1.png":[1.0,132,67.0,6],"frm2_master_fly_side_l2_v1.png":[1.0,111,47.5,0],"frm2_master_fly_side_l_v1.png":[1.0,132,67.5,6],"frm2_master_fly_side_r_v1.png":[1.0,132,67.5,6],"frm3_frm_male_carry_01_v1.png":[1.0,137,51.0,6],"frm3_frm_male_carry_02_v1.png":[1.0,136,47.5,0],"frm3_frm_male_carry_03_v1.png":[1.0,137,50.0,0],"frm3_frm_male_harvest_01_v1.png":[1.0,137,51.5,17],"frm3_frm_male_harvest_02_v1.png":[1.0,137,47.5,7],"frm3_frm_male_harvest_03_v1.png":[1.0,137,50.5,2],"frm3_frm_male_water_01_v1.png":[1.0,136,57.5,4],"frm3_frm_male_water_02_v1.png":[1.0,136,53.0,1],"frm3_frm_male_water_03_v1.png":[1.0,136,54.5,0],"frm_female_basket_01_v1.png":[1.0,137,47.5,33],"frm_female_basket_02_v1.png":[1.0,137,48.0,32],"frm_female_basket_03_v1.png":[1.0,137,48.0,34],"frm_male_carry_01_v1.png":[1.0,137,51.0,6],"frm_male_carry_02_v1.png":[1.0,136,47.5,0],"frm_male_carry_03_v1.png":[1.0,137,50.0,0],"frm_male_harvest_01_v1.png":[1.0,137,51.5,17],"frm_male_harvest_02_v1.png":[1.0,137,47.5,7],"frm_male_harvest_03_v1.png":[1.0,137,50.5,2],"frm_male_walk_01_v1.png":[1.0,137,47.5,12],"frm_male_walk_02_v1.png":[1.0,137,47.5,12],"frm_male_walk_03_v1.png":[1.0,137,47.5,12],"frm_male_walk_04_v1.png":[1.0,137,47.5,12],"frm_male_walk_05_v1.png":[1.0,137,47.5,12],"frm_male_water_01_v1.png":[1.0,136,57.5,4],"frm_male_water_02_v1.png":[1.0,136,53.0,1],"frm_male_water_03_v1.png":[1.0,136,54.5,0],"frm_master_backwalk_01_v1.png":[1.0,137,48.0,12],"frm_master_backwalk_02_v1.png":[1.0,137,48.0,13],"frm_master_backwalk_03_v1.png":[1.0,137,47.5,13],"frm_master_backwalk_04_v1.png":[1.0,137,47.5,13],"frm_master_backwalk_05_v1.png":[1.0,137,48.0,13],"frm_master_hoe_01_v1.png":[1.0,137,57.5,12],"frm_master_hoe_02_v1.png":[1.0,137,53.5,17],"frm_master_hoe_03_v1.png":[1.0,137,55.0,19],"frm_master_walk_01_v1.png":[1.0,137,47.5,12],"frm_master_walk_02_v1.png":[1.0,137,48.0,12],"frm_master_walk_03_v1.png":[1.0,137,48.0,10],"frm_master_walk_04_v1.png":[1.0,137,48.0,10],"frm_master_walk_05_v1.png":[1.0,137,48.0,10],"frm_master_water_01_v1.png":[1.0,137,48.0,13],"frm_master_water_02_v1.png":[1.0,137,57.5,13],"frm_master_water_03_v1.png":[1.0,137,58.0,14],"frm_master_cast_01_v1.png":[1.0,137,47.5,0],"frm_master_cast_02_v1.png":[1.0,137,47.5,0],"frm_master_cast_03_v1.png":[1.0,137,48.0,0],"frm_master_cast_04_v1.png":[1.0,137,48.0,0],"art2_sword_v1.png":[1.1667,40,114,2],"fx2_trail_1_v1.png":[1.0,60,88,4],"fx2_trail_2_v1.png":[1.0,60,88,4],"fx2_trail_3_v1.png":[1.0,60,88,4],"fx2_trail_4_v1.png":[1.0,60,88,4],"frm_master_sow_01_v1.png":[1.0,137,47.5,13],"frm_master_harvest_01_v1.png":[1.0,137,47.5,13],"frm_master_sow_02_v1.png":[1.0,137,50.5,13],"frm_master_harvest_02_v1.png":[1.0,137,52.5,18],"frm_master_sow_03_v1.png":[1.0,137,50.5,16],"frm_master_harvest_03_v1.png":[1.0,137,50.5,14],"frm2_master_fly_front_bd_v1.png":[1.0,130,66.5,6],"frm2_master_fly_front_sw_v1.png":[1.0,143,67.0,131],"frm2_master_fly_back_bd_v1.png":[1.0,130,66.5,6],"frm2_master_fly_back_sw_v1.png":[1.0,143,67.0,131],"frm2_master_fly_side_l_bd_v1.png":[1.0,130,67.0,6],"frm2_sword_v1.png":[1.0,10,66.0,0]};
 /* 修复四批①：角色固定倍率——站立帧一次性标定、全状态（站/走/飞/劳作）共用，运行时不许再按单帧身体高/包围盒算缩放。
    master 由 chr_master_front 标定、disciple 由 frm2_male_walkf_01 标定（两者旧口径均为 1.0，故取 1.000，地面观感零回归）；
    flyK＝御剑族一次性标定吸收常量：三姿与站立帧同为 144 高画布、头部原生尺寸同尺，无成体系原生比例差，取 1.000；
@@ -2875,6 +2907,10 @@ const Render = {
       if (isPlayer){
         if (act === 'hoe') name = cyc(['frm_master_hoe_01_v1.png', 'frm_master_hoe_02_v1.png', 'frm_master_hoe_03_v1.png'], 150);
         else if (act === 'water') name = cyc(['frm_master_water_01_v1.png', 'frm_master_water_02_v1.png', 'frm_master_water_03_v1.png'], 150);
+        /* 高清真机反馈批①：播种/收获改主角本尊帧（表02 播/收行，本批入包）。
+           旧版 seed/harvest 落入 else 兜底挂男弟子收获帧＋藏青染色——发髻/脸/袍全非本尊，主人录屏实证「耕地时变了个人」。 */
+        else if (act === 'seed') name = cyc(['frm_master_sow_01_v1.png', 'frm_master_sow_02_v1.png', 'frm_master_sow_03_v1.png'], 150);
+        else if (act === 'harvest') name = cyc(['frm_master_harvest_01_v1.png', 'frm_master_harvest_02_v1.png', 'frm_master_harvest_03_v1.png'], 150);
         else { name = cyc(['frm_male_harvest_01_v1.png', 'frm_male_harvest_02_v1.png', 'frm_male_harvest_03_v1.png'], 150); tint = '#2e3d5c'; }
       } else if (act === 'water'){ name = cyc(['frm_male_water_01_v1.png', 'frm_male_water_02_v1.png', 'frm_male_water_03_v1.png'], 160); tint = robe; flip = st.face < 0; }
       else if (act === 'carry'){ name = cyc(['frm_male_carry_01_v1.png', 'frm_male_carry_02_v1.png', 'frm_male_carry_03_v1.png'], 150); tint = robe; flip = st.face < 0; }
@@ -2893,8 +2929,10 @@ const Render = {
           else if (st.dir === 'side'){
             /* 修复三批②：侧向定版单姿 side_l（原生朝左）——右行镜像、左行原图。
                旧版每 380ms 在 side_r/side_l2 两张异姿间交替（剑形/剑穗完全不同）＝剑身高频闪烁的根因，交替已删。
-               朝向登记纠错：side_r/side_l/side_l2 三姿经放大目检全部原生面朝左（见 ORIENTATION-map 修正）。 */
-            name = 'frm2_master_fly_side_l_v1.png'; flip = st.face > 0;
+               朝向登记纠错：side_r/side_l/side_l2 三姿经放大目检全部原生面朝左（见 ORIENTATION-map 修正）。
+               高清真机反馈批③追加：优先用去剑身体层 side_l_bd——烘焙侧剑经像素实测为「柄在行进侧、尖背向行进方向」
+               （主人 13:00 令剑尖必须随向），剑身改由单体件绘制；分层缺失回退整幅。 */
+            name = Art.F['frm2_master_fly_side_l_bd_v1.png'] ? 'frm2_master_fly_side_l_bd_v1.png' : 'frm2_master_fly_side_l_v1.png'; flip = st.face > 0;
           }
           else name = 'frm2_master_fly_front_v1.png';
         }
@@ -2925,8 +2963,32 @@ const Render = {
         else { name = 'chr_male_front_v1.png'; tint = robe; } }
     }
     /* 修复三批④：劳作帧优先用调色版 frm3（袍色已离线映射回 frm2 色系，运行时同种子色染色结果与待机帧一致）；
-       fix3 图集未就绪时自动回退原帧。覆盖弟子 water/carry 与主角 harvest（同走 frm_male_* 帧名）。 */
+       fix3 图集未就绪时自动回退原帧。覆盖弟子 water/carry/harvest（主角自高清真机反馈批①起 harvest 走本尊帧、不再经此覆盖）。 */
     if (name && Art.ready3 && Art.F['frm3_' + name] && /^frm_male_(water|carry|harvest)_/.test(name)) name = 'frm3_' + name;
+    /* 高清真机反馈批③＋主人 13:00 追加令：全向御剑改「去剑身体层＋单体飞剑」。
+       烘焙剑与行进方向的关系逐向像素实测全错：正/背姿是横剑（上下飞剑不跟向）；侧姿柄在行进侧、剑尖背向行进方向。
+       故剑身统一由单体件 frm2_sword（尖端朝 +x）按行进方向角绘制：右 0／下 +90°／左 180°／上 −90°，剑尖恒随向；
+       st.swordAng 以 90°/swordSqMs 走最短弧转向（转向/起落过渡无跳变）；竖向时剑长放大 swordLenFB 并沿轴前移
+       （柄贴脚底、尖端探出体外），身体层随后盖住剑身中段。分层/单体件缺失自动回退整幅烘焙姿。 */
+    let flyBody = null;
+    if (isPlayer && usedFlyPose){
+      if (st.dir === 'front' || st.dir === 'back'){
+        const base = name.slice(0, -7);
+        if (Art.F[base + '_bd_v1.png'] && Art.F['frm2_sword_v1.png']) flyBody = base + '_bd_v1.png';
+      } else if (/_bd_v1\.png$/.test(name) && Art.F['frm2_sword_v1.png']) flyBody = name;
+    }
+    const aDt = Math.max(0, Math.min(64, now - (st.aAt || now))); st.aAt = now;
+    let swordAng = null;
+    if (flyBody){
+      const tgt = st.dir === 'front' ? Math.PI / 2 : st.dir === 'back' ? -Math.PI / 2 : (st.face > 0 ? 0 : Math.PI);
+      if (st.swordAng === undefined) st.swordAng = tgt;
+      let dA = tgt - st.swordAng;
+      while (dA > Math.PI) dA -= Math.PI * 2;
+      while (dA < -Math.PI) dA += Math.PI * 2;
+      const stepA = (Math.PI / 2) / CONFIG.flight.swordSqMs * aDt;
+      st.swordAng += Math.abs(dA) <= stepA ? dA : Math.sign(dA) * stepA;
+      swordAng = st.swordAng;
+    }
     /* bob 锁步帧相位：起伏峰值与落脚同相，不再各走各的墙钟；御剑时为悬停微浮。 */
     const bob = flying ? Math.sin(now / 520) * 1.3
       : e.moving ? Math.abs(Math.sin(st.phase)) * 2.1
@@ -2970,18 +3032,26 @@ const Render = {
     g.fillStyle = 'rgba(0,0,0,' + shA + ')';
     g.fillRect(Math.round(e.x - cam.x - shW / 2), Math.round(e.y - cam.y + 1), shW, 6);
     if (isPlayer && lift > 0.5 && !usedFlyPose) this._drawSword(e, st, cam, lift);   // 程序飞剑降为 art2 未就绪兜底（SWORD-ART-TODO 已由姿态整图销账）
+    /* 高清真机反馈批③：分层路径先画单体飞剑（按行进角旋转、尖端随向）、再画去剑身体层盖住剑身中段
+       （绘制顺序兼顾 fix5 选帧钩子取末帧＝身体层的契约） */
+    const drawMain = () => {
+      if (flyBody){
+        this._drawFlySword(g, swordAng, dx + (B3 ? B3[2] / fW : 0.5) * dwP, dy + 134 / 144 * dhP, dwP, dhP);
+        Art.draw(g, flyBody, dx, dy, dwP, dhP, flip);
+      }
+      else if (tint) Art.drawTinted(g, name, tint, dx, dy, dwP, dhP, flip);
+      else Art.draw(g, name, dx, dy, dwP, dhP, flip);
+    };
     if (isPlayer && flying){ // 御剑身体微倾：绕脚底基点按横向速度倾斜
       st.tilt += (clamp(st.vx * 0.05, -0.15, 0.15) - st.tilt) * 0.25;
       g.save();
       g.translate(e.x - cam.x + sway, e.y - cam.y - lift);
       g.rotate(st.tilt);
       g.translate(-(e.x - cam.x + sway), -(e.y - cam.y - lift));
-      if (tint) Art.drawTinted(g, name, tint, dx, dy, dwP, dhP, flip);
-      else Art.draw(g, name, dx, dy, dwP, dhP, flip);
+      drawMain();
       g.restore();
     } else {
-      if (tint) Art.drawTinted(g, name, tint, dx, dy, dwP, dhP, flip);
-      else Art.draw(g, name, dx, dy, dwP, dhP, flip);
+      drawMain();
     }
     /* 紧急修复批②：女弟子发饰层——与男弟子共用帧表，靠发间花瓣钗区分（视觉规范既定路线）；
        位置随朝向：正/背在头侧，侧面在朝向侧上方。 */
@@ -2992,6 +3062,20 @@ const Render = {
       const psz = dhP / DH;
       Art.draw(g, 'fx_petal_1_v1.png', dx + pcx + poff, dy + ptop - 2, 15 * psz, 11 * psz);
     }
+  },
+  /* 高清真机反馈批③：单体飞剑绘制——frm2_sword（尖端朝 +x）绕脚底锚点按行进角旋转，尖端恒随向。
+     剑长随 |sin(ang)| 在整幅长↔swordLenFB 间过渡；竖向时沿轴前移（柄贴脚底、尖端探出体外），
+     身体层随后盖住剑身中段，只露行进侧的尖端与脚侧的柄端。锚点 (ax, ay) 为刃线中心（画布行 134/144 处）。 */
+  _drawFlySword(g, ang, ax, ay, dwP, dhP){
+    if (ang === null || ang === undefined) return;
+    const cv = this._swordCv || (this._swordCv = Art.cropCanvas('frm2_sword_v1.png'));
+    if (!cv) return;
+    const L = dwP * (1 + (CONFIG.flight.swordLenFB - 1) * Math.abs(Math.sin(ang)));
+    const T = L * cv.height / cv.width;
+    const ux = Math.cos(ang), uy = Math.sin(ang);
+    const shift = (L / 2 - dhP * 0.11) * Math.abs(Math.sin(ang));
+    g.save(); g.translate(ax + ux * shift, ay + uy * shift); g.rotate(ang);
+    g.drawImage(cv, -L / 2, -T / 2, L, T); g.restore();
   },
   /* 修复批①遗留：程序像素飞剑——美术批二起降为 art2 未就绪兜底（正常路径由 GPT 御剑姿态整图承担，见 drawPerson）。
      剑向随移动朝向平滑转头，静止悬停时回正到 facing；剑身带一层微光拖影晕。 */
